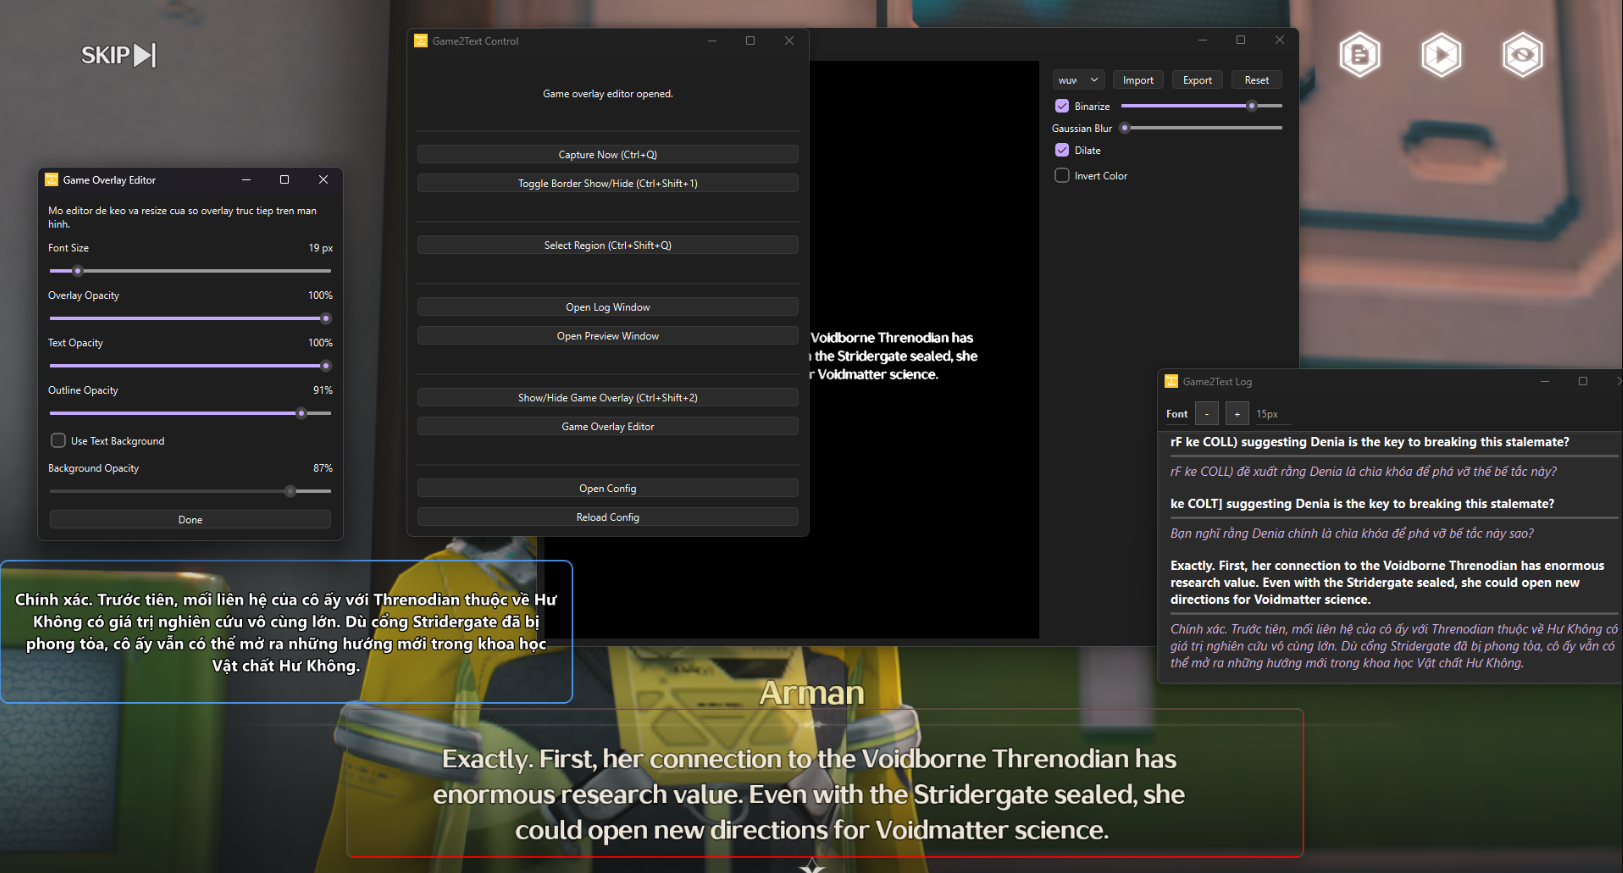
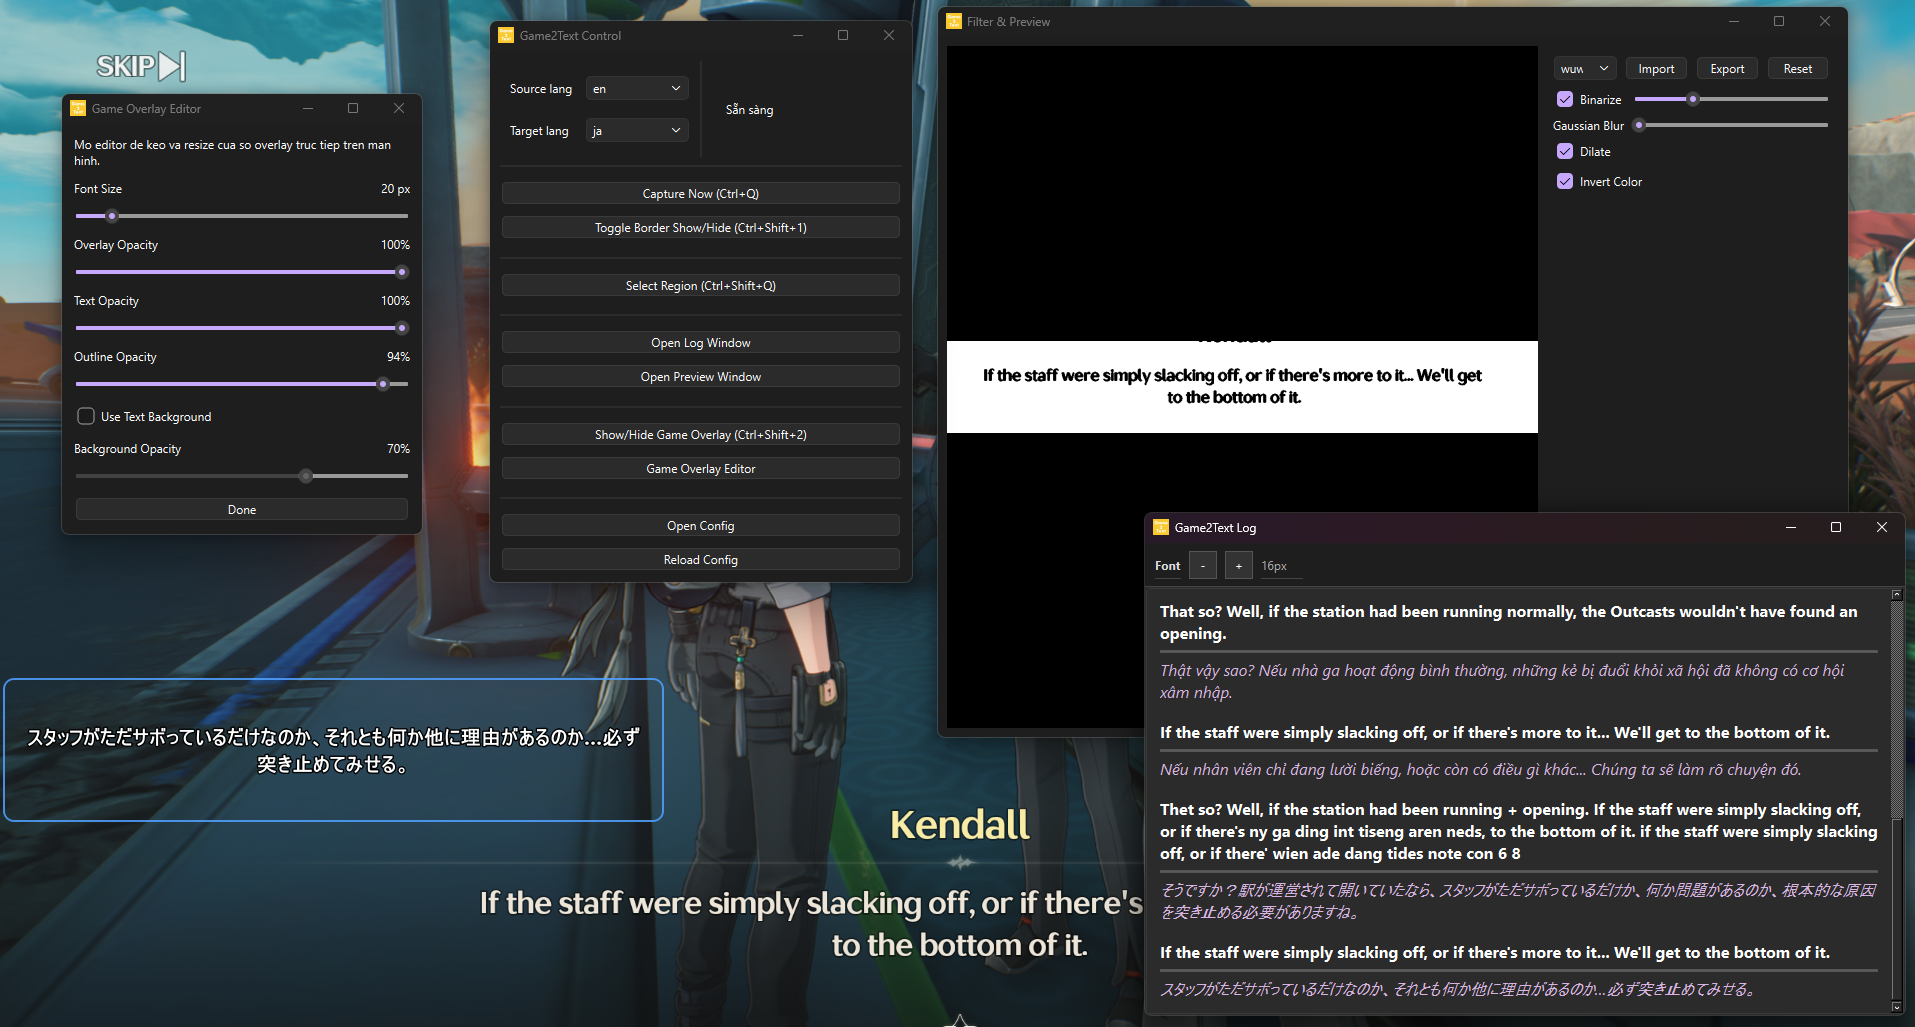
Update hotkey configuration to disable trigger on release for improved responsiveness

diff --git a/native/hotkeys/service.py b/native/hotkeys/service.py
@@ -23,25 +23,25 @@ def setup_hotkeys(
         capture_hotkey,
         lambda: global_bus.trigger_capture.emit(),
         suppress=False,
-        trigger_on_release=True,
+        trigger_on_release=False,
     )
     keyboard.add_hotkey(
         select_hotkey,
         lambda: global_bus.trigger_select_region.emit(),
         suppress=False,
-        trigger_on_release=True,
+        trigger_on_release=False,
     )
     keyboard.add_hotkey(
         show_borders_hotkey,
         lambda: global_bus.trigger_show_borders.emit(),
         suppress=False,
-        trigger_on_release=True,
+        trigger_on_release=False,
     )
     keyboard.add_hotkey(
         toggle_game_overlay_hotkey,
         lambda: global_bus.trigger_toggle_game_overlay.emit(),
         suppress=False,
-        trigger_on_release=True,
+        trigger_on_release=False,
     )
 
 